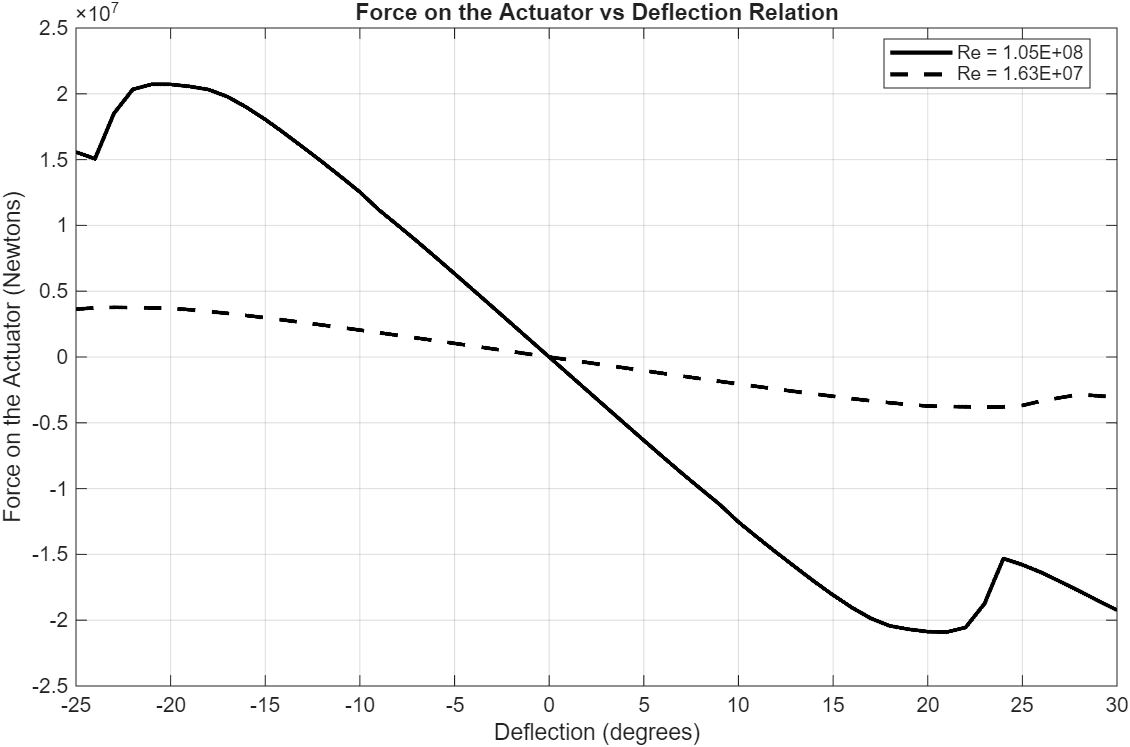
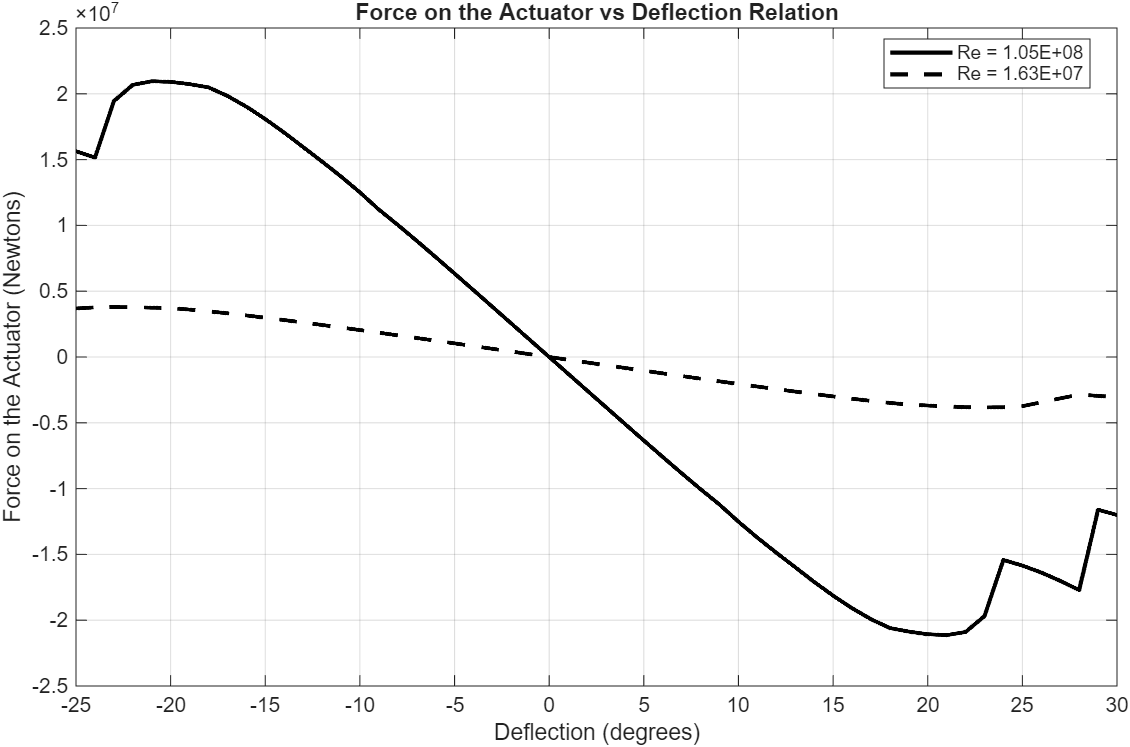
Plotting update for the final Re values

diff --git a/Code_files/plot_data.m b/Code_files/plot_data.m
@@ -70,13 +70,13 @@ yyaxis left
 plot(deflection, F_y_stab(1, :), 'black', LineStyle="-", LineWidth=2);
 hold on
 plot(deflection, F_y_stab(2, :), 'black', LineStyle="--", LineWidth=2);
-ylabel('C_L');
+ylabel('N');
+plot(deflection, F_x_stab(1, :), LineStyle="-", Color='blue', LineWidth=2);
+plot(deflection, F_x_stab(2, :), LineStyle="--", Color='blue', LineWidth=2);
 yyaxis right
-plot(deflection, F_x_stab(1, :), LineStyle="-", Color=[1, 0.5, 0], LineWidth=2);
-plot(deflection, F_x_stab(2, :), LineStyle="--", Color=[1, 0.5, 0], LineWidth=2);
 plot(deflection, M_stab(1, :), 'red', LineStyle="-", LineWidth=2);
 plot(deflection, M_stab(2, :), 'red', LineStyle="--", LineWidth=2);
-ylabel('C_D and C_M');
+ylabel('Nm');
 xlabel('Deflection (degrees)');
 xlim([min(deflection) max(deflection)])
 legend(sprintf('F_y (Re = %.2E)', Re_high), sprintf('F_y (Re = %.2E)', Re_low), ...

diff --git a/Code_files/import_aerodynamic_coefficients.m b/Code_files/import_aerodynamic_coefficients.m
@@ -16,11 +16,11 @@ opts.ExtraColumnsRule = "ignore";
 opts.EmptyLineRule = "read";
 
 % Import the data
-airfoil_data_lRE = readtable("airfoil_analysis\1.47e+7results.csv", opts);
+airfoil_data_lRE = readtable("airfoil_analysis\1.63e+07results.csv", opts);
 
 airfoil_data_lRE = rmmissing(airfoil_data_lRE);
 
-airfoil_data_hRE = readtable("airfoil_analysis\RE9.45e+7.csv", opts);
+airfoil_data_hRE = readtable("airfoil_analysis\1.0516e+08results.csv", opts);
 
 airfoil_data_hRE = rmmissing(airfoil_data_hRE);
 %% Clear temporary variables
